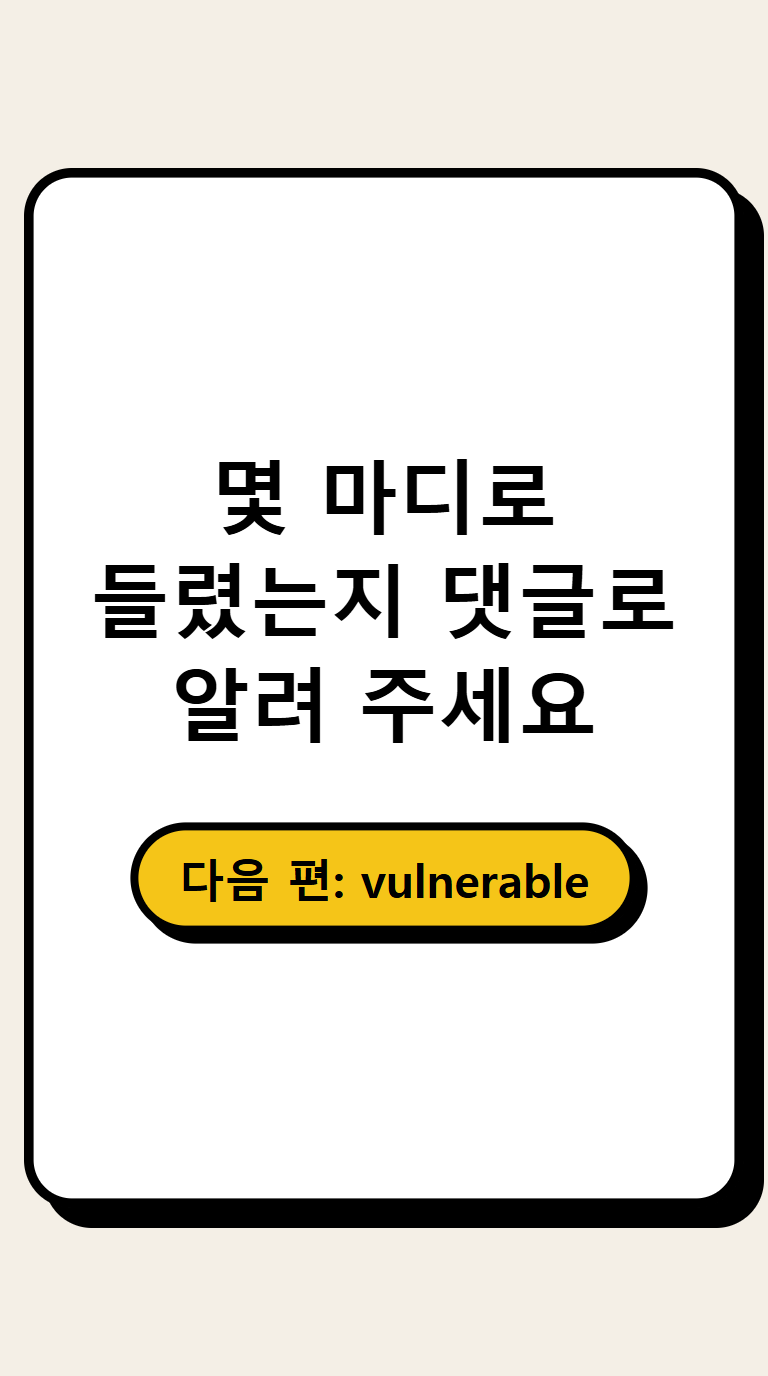
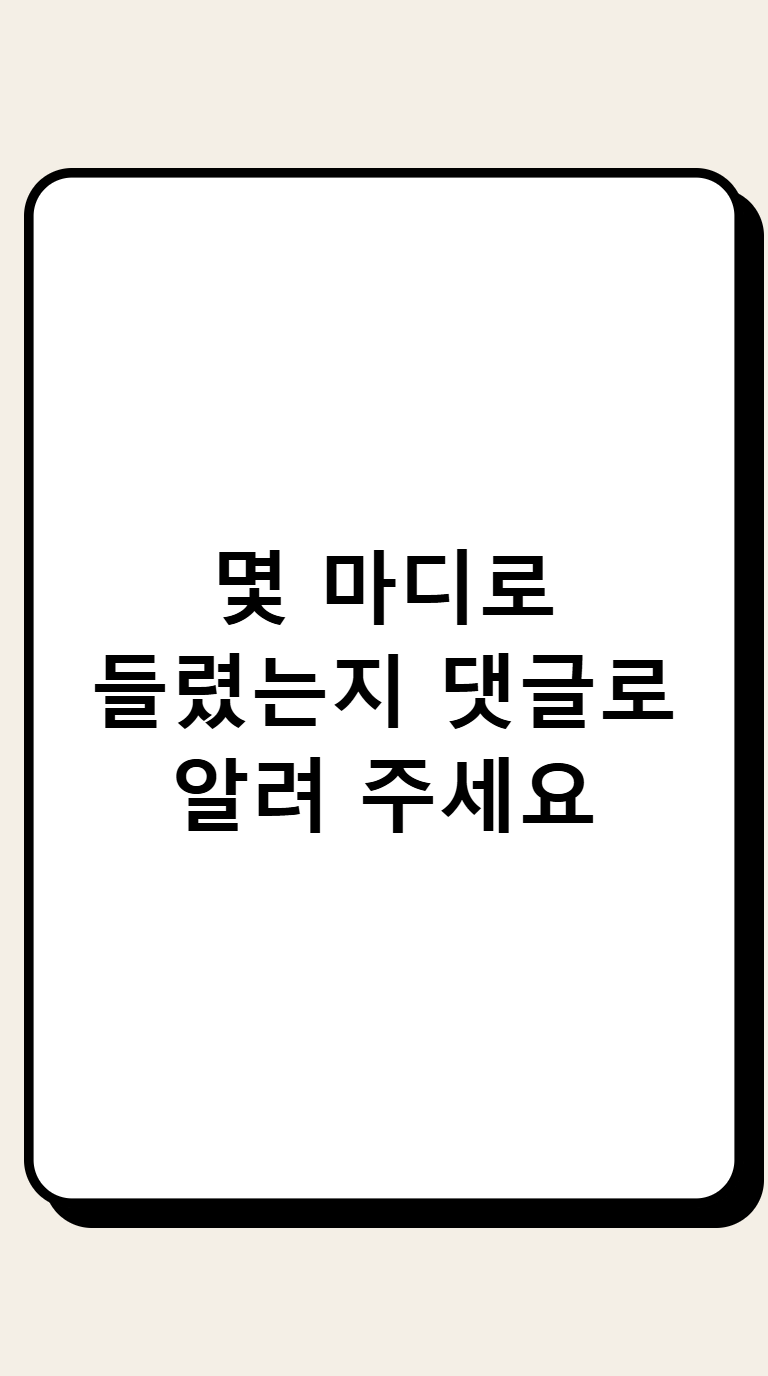
fix(data): 변형 시트 대본에서 지키지 않을 다음 편 약속을 빼고 고정 댓글 문구를 고침

Changed region(s): [[0.125, 0.3125, 0.875, 0.6875]]

diff --git a/knowledge/logs/2026-11.md b/knowledge/logs/2026-11.md
@@ -772,3 +772,9 @@
 - 첫 시트(SbQVBQoRciA)를 2판으로 올리고 14컷 대본을 썼다. 말하는 속도는 컷별 3.3~6.4자/초. 스킬 `01-topic-and-data.md`에 3-2 추가(.agents 사본 동기화).
 - 아직 남은 것: vulnerable 사전 대조와 영국식 확인(사실 확인 목록), 40초 컷의 "정답은 고정 댓글에"는 이 확인 뒤에야 쓸 수 있다. FACT-CHECK.md가 없으면 음성을 만들지 않는다. 썸네일·제목 선택은 사용자 몫.
 - 확인: `npm test` pass 413 / fail 0, 화면 검사 통과, 브라우저에서 컷 대본 14개·전체 대본 14줄 표시.
+
+## 2026-11-13 변형 시트 대본: 지키지 않을 약속 제거
+- 사용자 지적: "다음 편에서 이어 갈게요"라고 했는데 정말 이어 갈 건가. 다음 편은 정해진 것이 없었다(시트에 "vulnerable을 다음 편 소재로 예고"라고만 적었고 BRIEF나 계획은 없음) → 영상이 지키지 못할 약속을 하고 있었다.
+- 고친 것: 44.5초 컷 대본에서 약속을 빼고, 컷 카드의 "다음 편: vulnerable" 알약도 지워 다시 렌더링했다. 40초 컷은 "정답은 고정 댓글에 있어요."로 고쳤다. 시트의 반응 지점 설명도 같이 고쳤다.
+- 남은 약속: "고정 댓글에 있어요"는 업로드 때 vulnerable 정답(사전 대조 뒤)을 고정 댓글에 적고 직접 고정해야 지켜진다. 시트 `pending`에 적었다.
+- 확인: `npm test` pass 413 / fail 0, 바뀐 카드 이미지를 눈으로 확인.
